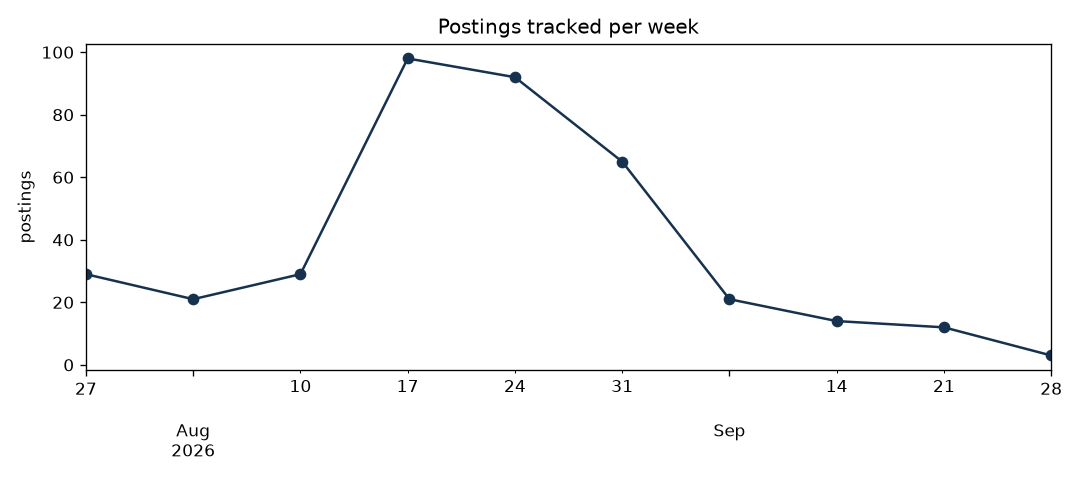
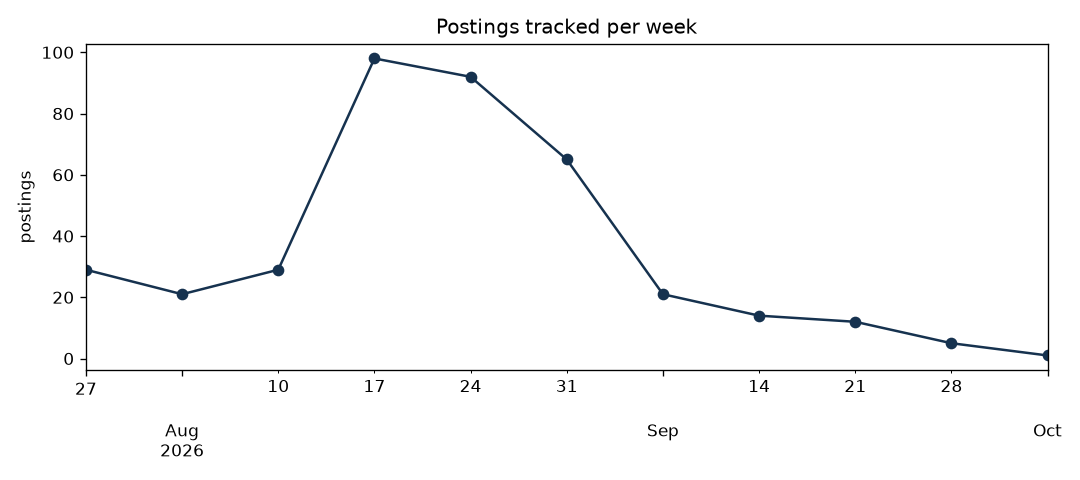
Daily data update

diff --git a/README.md b/README.md
@@ -13,13 +13,13 @@ reporting end to end.
 ## Dashboard
 
 <!-- dashboard:start -->
-*Last updated: 2026-10-04 17:17 UTC*
+*Last updated: 2026-10-06 18:46 UTC*
 
 | | |
 |---|---|
-| Postings tracked | 384 |
-| Companies | 319 |
-| New since last run | 0 |
+| Postings tracked | 387 |
+| Companies | 321 |
+| New since last run | 3 |
 | Data/ML-related share | 29% |
 
 ![Postings per week](reports/figures/postings_per_week.png)
